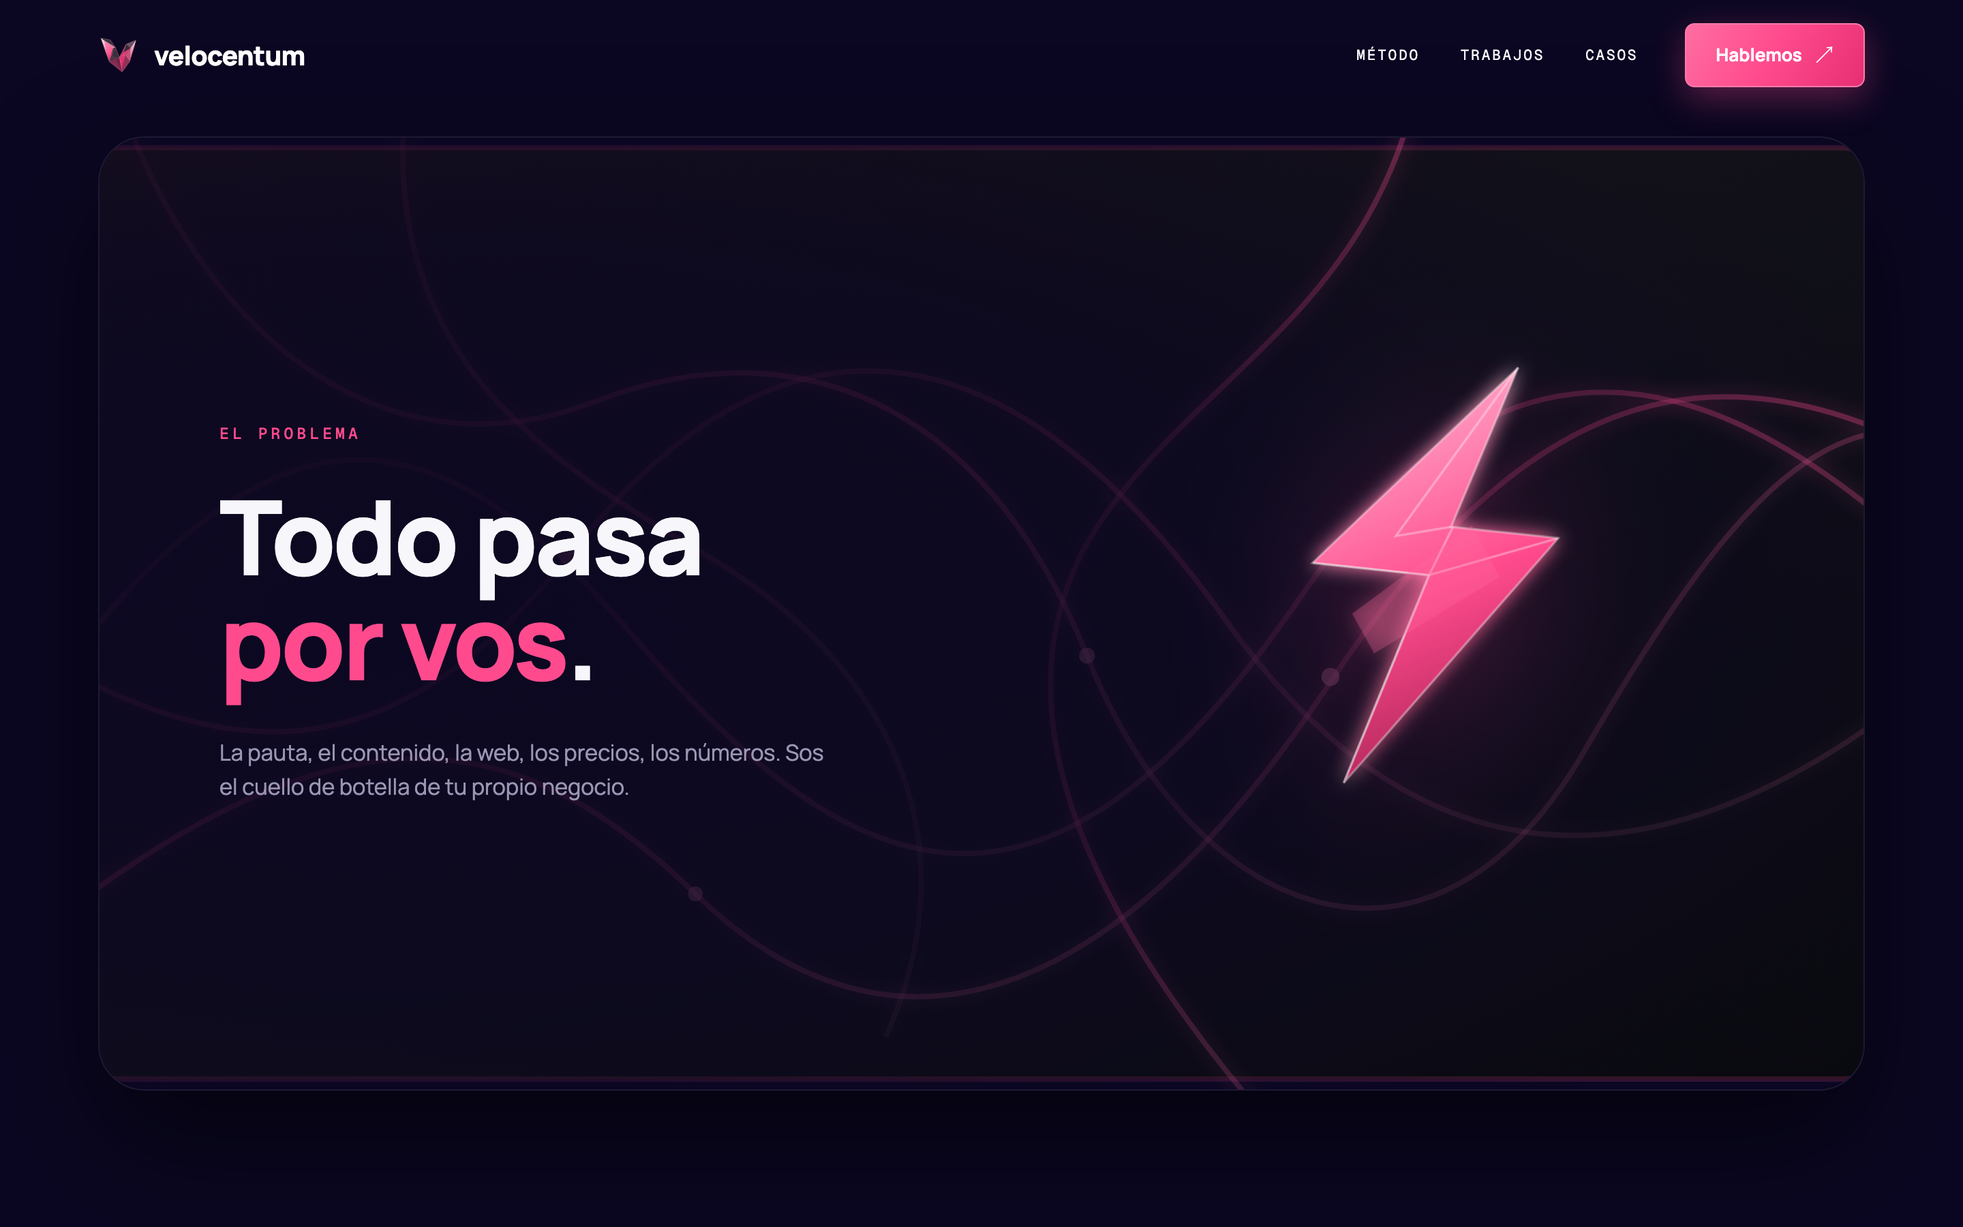
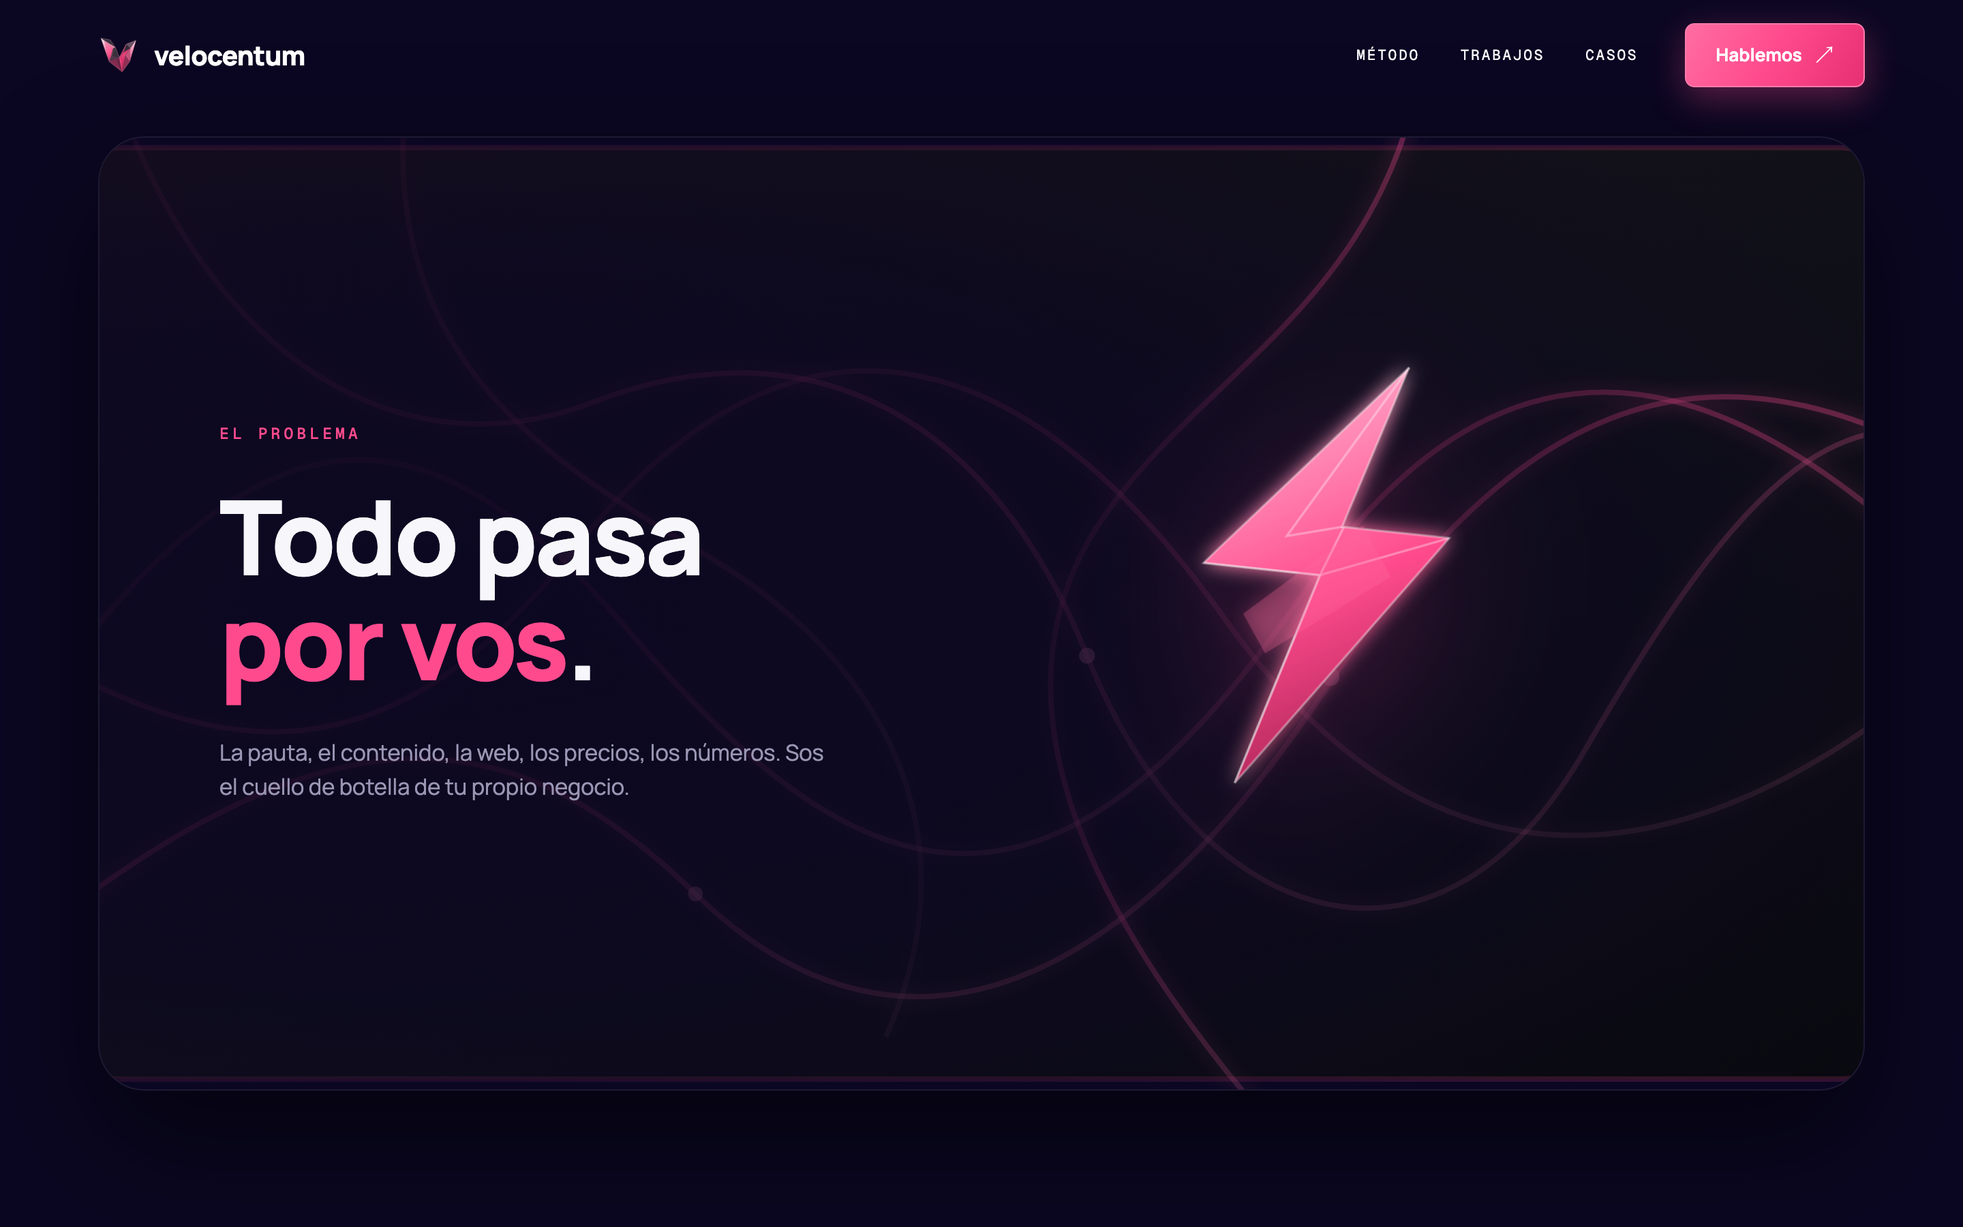
Mockups: correcciones de revisión y aprobación de las cinco secciones
CTA del Hero: vuelve a "Hablemos ↗". El Hero abre y la Sección 09 cierra, y
no pueden usar el mismo botón; además el CTA primario del Hero y el del nav
quedan a treinta píxeles uno del otro. La regla global del CTA en
PLAN_MAIN_HOME.txt pasa a precisar que el CTA de CIERRE DE PÁGINA es único y
dice "Reservá tu análisis de negocio ↗", y que el del Hero y el del nav dicen
"Hablemos ↗". El formato del design system, rx=7 y flecha ↗, vale en los tres.

Footer de la 09: se sacan las ocho ranuras punteadas, que ocupaban medio
footer. Quedan las etiquetas genéricas en texto plano gris tenue, sin
dirección ni enlace detrás, y una sola nota al margen. La regla 11 sigue
valiendo y el contenido real del footer sigue pendiente de definición.

Prisma de la 03: gana presencia de forma aditiva, con una copia de refuerzo
por detrás y el SVG oficial intacto encima. No se reemplaza ninguna pintura
del asset. prism.svg no se toca: su defecto queda documentado en el plan y su
corrección, si se decide, va en un commit propio.

Rayo de la 02: se separa del filo derecho de la card.

Los cinco mockups quedan APROBADOS y registrados en PLAN_MAIN_HOME.txt, como
pide la regla 4 del README de docs/home-mockups. Los mockups anteriores de las
secciones 01, 04 y 09 quedan como versión previa y no se borran. La Sección 05
sigue en PENDIENTE: el diseño de la forma del abanico no está resuelto.

Claude-Session: https://claude.ai/code/session_01AuyrxvTBrKsn7yPnydavKT

Changed region(s): [[0.5938, 0.28, 0.8125, 0.6533]]

diff --git a/docs/home-mockups/03-problema-dos-mockup-final-v2.html b/docs/home-mockups/03-problema-dos-mockup-final-v2.html
@@ -61,7 +61,7 @@ html,body{background:#08080C;color:#FFF;font-family:var(--sans)}
 /* OBJETO: wrapper animado, SVG oficial intacto */
 .obj{position:absolute;z-index:4;filter:drop-shadow(0 24px 60px rgba(255,77,141,.30))}
 .obj svg{width:100%;height:auto;display:block}
-.obj.lightning{right:170px;top:50%;width:300px;transform:translateY(-58%) rotate(6deg)}
+.obj.lightning{right:250px;top:50%;width:300px;transform:translateY(-58%) rotate(6deg)}
 .obj.prism{left:120px;top:50%;width:460px;transform:translateY(-44%) rotate(-4deg)}
 /* DEFECTO DEL ASSET, neutralizado sin tocarlo: en objects/prism.svg la arista
    interna <path d="M250 28L250 218M164 218L250 122 337 218"> no declara
@@ -69,6 +69,19 @@ html,body{background:#08080C;color:#FFF;font-family:var(--sans)}
    vidrio. El PNG oficial del mismo objeto no tiene esa cuña negra. Ninguna
    ruta de ese SVG lleva relleno propio, así que anularlo acá es exacto. */
 .obj.prism svg path{fill:none}
+/* El prisma quedaba como contorno puro y no equilibraba el peso del rayo de
+   la 02. Se le sube la presencia SIN TOCAR EL ASSET: un relleno propio en la
+   cara de vidrio, por debajo del gradiente original del SVG, más un realce
+   suave del contorno. La geometría, los materiales y las opacidades base del
+   archivo quedan intactos. */
+.obj.prism{filter:drop-shadow(0 24px 60px rgba(255,77,141,.34)) drop-shadow(0 0 34px rgba(255,155,192,.34))}
+/* La presencia se agrega POR DETRÁS, no sobre el asset: una copia de refuerzo
+   con las caras rellenas, y encima el SVG oficial intacto con su gradiente
+   glass, su contorno y su haz. Así se suma peso sin reemplazar ni una sola
+   pintura del archivo aprobado. */
+.obj.prism .backing{position:absolute;inset:0;z-index:-1}
+.obj.prism .backing svg polygon{fill:rgba(255,140,184,.40);stroke:none}
+.obj.prism .backing svg path{fill:none;stroke:none}
 
 /* COPY: caja de 560 */
 .copy{position:relative;z-index:5;width:560px;margin-left:88px}
@@ -213,7 +226,17 @@ h2 em{font-style:normal;color:var(--pink)}
   <path d="M18 16h122" stroke="#fff" stroke-opacity=".06"/>
 </svg></div>
     <div class="veil"></div>
-    <div class="obj prism"><svg xmlns="http://www.w3.org/2000/svg" viewBox="0 0 520 260">
+    <div class="obj prism"><div class="backing"><svg xmlns="http://www.w3.org/2000/svg" viewBox="0 0 520 260">
+<defs>
+ <linearGradient id="pr03b-glass" x1="190" y1="30" x2="300" y2="220" gradientUnits="userSpaceOnUse"><stop stop-color="#fff" stop-opacity=".16"/><stop offset=".5" stop-color="#FF9BC0" stop-opacity=".12"/><stop offset="1" stop-color="#FF4B8D" stop-opacity=".18"/></linearGradient>
+ <linearGradient id="pr03b-beam" x1="250" y1="0" x2="500" y2="0" gradientUnits="userSpaceOnUse"><stop stop-color="#fff"/><stop offset=".18" stop-color="#ffe76d"/><stop offset=".38" stop-color="#7dff6a"/><stop offset=".60" stop-color="#50c9ff"/><stop offset=".82" stop-color="#7c5cff"/><stop offset="1" stop-color="#FF4B8D" stop-opacity="0"/></linearGradient>
+ <filter id="pr03b-g"><feGaussianBlur stdDeviation="5"/></filter>
+</defs>
+<path d="M16 136H170" stroke="#FF4B8D" stroke-opacity=".20" stroke-width="16" filter="url(#pr03b-g)"/><path d="M16 136H170" stroke="#FF4B8D" stroke-opacity=".45" stroke-width="3"/>
+<polygon points="250,28 164,218 337,218" fill="url(#pr03b-glass)" stroke="#FFB1CC" stroke-opacity=".82" stroke-width="2"/>
+<path d="M250 28L250 218M164 218L250 122 337 218" stroke="#fff" stroke-opacity=".18"/>
+<path d="M250 136L500 136" stroke="url(#pr03b-beam)" stroke-width="13" filter="url(#pr03b-g)"/><path d="M250 136L500 136" stroke="url(#pr03b-beam)" stroke-width="5"/>
+</svg></div><svg xmlns="http://www.w3.org/2000/svg" viewBox="0 0 520 260">
 <defs>
  <linearGradient id="pr03-glass" x1="190" y1="30" x2="300" y2="220" gradientUnits="userSpaceOnUse"><stop stop-color="#fff" stop-opacity=".16"/><stop offset=".5" stop-color="#FF9BC0" stop-opacity=".12"/><stop offset="1" stop-color="#FF4B8D" stop-opacity=".18"/></linearGradient>
  <linearGradient id="pr03-beam" x1="250" y1="0" x2="500" y2="0" gradientUnits="userSpaceOnUse"><stop stop-color="#fff"/><stop offset=".18" stop-color="#ffe76d"/><stop offset=".38" stop-color="#7dff6a"/><stop offset=".60" stop-color="#50c9ff"/><stop offset=".82" stop-color="#7c5cff"/><stop offset="1" stop-color="#FF4B8D" stop-opacity="0"/></linearGradient>
@@ -276,7 +299,7 @@ h2 em{font-style:normal;color:var(--pink)}
     <li><b>Se elimina el fragmento guía.</b> Ya no hay espacio lateral reservado para él, ni en esta sección ni en ninguna otra de la HOME.</li>
     <li><b>Movimiento:</b> idéntico al de la 02, aplicado al prisma. Recorrido acotado, nunca toca el borde de la card. Función pura del progreso local, reversible y sólo <code>transform</code>. En <code>prefers-reduced-motion</code> queda en posición fija, sin recorrido.</li>
     <li><b>Tipografía real.</b> Manrope y Geist Mono, no la Helvetica del boceto.</li>
-    <li><b>Defecto encontrado en <code>objects/prism.svg</code>.</b> Su arista interna no declara <code>fill="none"</code>, así que el subtrazo se rellena de negro y tapa el vidrio del prisma; el PNG oficial del mismo objeto no tiene esa cuña. Acá queda neutralizado desde el CSS del mockup, sin tocar el asset. Corregirlo en el archivo es una decisión del usuario.</li><li><b>Nota de contenido.</b> La 03 ya no repite el argumento de la 02. La 02 plantea el problema; la 03 ataca la solución obvia a ese problema, que es tercerizar.</li><li><b>Corte forzado en dos líneas:</b> «Sumar gente» / «no lo resolvió.», con «no lo resolvió» en <code>--pink</code>.</li>
+    <li><b>Defecto encontrado en <code>objects/prism.svg</code>.</b> Su arista interna no declara <code>fill="none"</code>, así que el subtrazo se rellena de negro y tapa el vidrio del prisma; el PNG oficial del mismo objeto no tiene esa cuña. Acá queda neutralizado desde el CSS del mockup, sin tocar el asset. La presencia de las caras se sube con una copia de refuerzo por detrás, con el SVG oficial intacto encima: no se reemplaza ninguna pintura del archivo aprobado. Corregirlo en el archivo es una decisión del usuario.</li><li><b>Nota de contenido.</b> La 03 ya no repite el argumento de la 02. La 02 plantea el problema; la 03 ataca la solución obvia a ese problema, que es tercerizar.</li><li><b>Corte forzado en dos líneas:</b> «Sumar gente» / «no lo resolvió.», con «no lo resolvió» en <code>--pink</code>.</li>
   </ul>
 </div>
 </div>

diff --git a/docs/home-mockups/09-empecemos-mockup-final-v2.html b/docs/home-mockups/09-empecemos-mockup-final-v2.html
@@ -78,14 +78,16 @@ h2 em{font-style:normal;color:var(--pink)}
 .fnav{display:flex;gap:28px;margin-left:64px;padding-top:5px}
 .fnav span{font-family:var(--mono);font-size:.62rem;letter-spacing:.13em;text-transform:uppercase;color:var(--on-dark-2)}
 .fright{margin-left:auto;text-align:right}
-/* CONTENIDO REAL PENDIENTE · regla 11 de AGENTS.md: no se inventan direcciones ni URLs */
-.slot{display:inline-block;border:1px dashed rgba(255,75,141,.55);border-radius:6px;
- padding:6px 12px;font-family:var(--mono);font-size:.58rem;letter-spacing:.12em;text-transform:uppercase;
- color:rgba(255,155,192,.9);background:rgba(255,75,141,.06)}
-.fright .slot{margin-bottom:9px}
-.soc{display:flex;gap:10px;justify-content:flex-end}
-.legal{position:absolute;left:72px;right:72px;top:1062px;display:flex;z-index:20;
- font-family:var(--mono);font-size:.58rem;letter-spacing:.1em;text-transform:uppercase;color:#6F6A86}
+/* Etiquetas genéricas, SIN dirección ni enlace detrás: la regla 11 de
+   AGENTS.md prohíbe inventar direcciones y URLs, y el contenido real del
+   footer está pendiente de definición. Va anotado al margen del mockup. */
+.fmail{display:block;font-size:13px;color:rgba(154,150,180,.78);margin-bottom:10px}
+.soc{display:flex;gap:20px;justify-content:flex-end}
+.soc span{font-family:var(--mono);font-size:.62rem;letter-spacing:.13em;text-transform:uppercase;
+ color:rgba(154,150,180,.6)}
+.legal{position:absolute;left:72px;right:72px;top:1064px;display:flex;z-index:20;
+ font-family:var(--mono);font-size:.58rem;letter-spacing:.1em;text-transform:uppercase;
+ color:rgba(111,106,134,.85)}
 .legal .r{margin-left:auto;display:flex;gap:26px}
 
 </style></head><body><div class="shell">
@@ -289,18 +291,14 @@ h2 em{font-style:normal;color:var(--pink)}
 </svg><span>velocentum</span></div>
     <div class="fnav"><span>Método</span><span>Trabajos</span><span>Casos</span><span>Contacto</span></div>
     <div class="fright">
-      <span class="slot">Mail · pendiente</span>
-      <div class="soc">
-        <span class="slot">Red 1 · pendiente</span>
-        <span class="slot">Red 2 · pendiente</span>
-        <span class="slot">Red 3 · pendiente</span>
-      </div>
+      <span class="fmail">Mail</span>
+      <div class="soc"><span>Instagram</span><span>LinkedIn</span><span>TikTok</span></div>
     </div>
   </div>
 
   <div class="legal">
-    <span class="slot">Legal · pendiente</span>
-    <div class="r"><span class="slot">Privacidad · pendiente</span><span class="slot">Términos · pendiente</span></div>
+    <span>© Velocentum</span>
+    <div class="r"><span>Políticas de privacidad</span><span>Términos</span></div>
   </div>
 
   <svg class="ann" data-layer="orden" viewBox="0 0 1440 1120">
@@ -329,9 +327,8 @@ h2 em{font-style:normal;color:var(--pink)}
     <text x="72" y="140" fill="#FF85B8">EL FORMULARIO VIVE EN LA RUTA /CONTACTO, EN DOS PASOS</text>
     <text x="72" y="158" fill="#9A96B4">CARD TRANSLÚCIDA SOBRE FONDO DE ATMOSPHERE/ · ESA RUTA TODAVÍA NO EXISTE EN EL ÁRBOL</text>
     <text x="72" y="176" fill="#9A96B4">T5 YA NO DISPARA EL REVEAL DEL FORMULARIO: DEBE REDEFINIRSE QUÉ REVELA</text>
-    <rect x="1000" y="972" width="368" height="118" fill="none" stroke="#FF4B8D" stroke-opacity=".5" stroke-dasharray="5 5"/>
-    <text x="1368" y="964" fill="#FF4B8D" text-anchor="end">MAIL Y REDES: CONTENIDO REAL PENDIENTE</text>
-    <text x="1368" y="1108" fill="#9A96B4" text-anchor="end">NO SE INVENTAN DIRECCIONES NI URLS · REGLA 11 DE AGENTS.MD</text>
+    <text x="1368" y="964" fill="#FF4B8D" text-anchor="end">EL CONTENIDO REAL DEL FOOTER ESTÁ PENDIENTE DE DEFINICIÓN</text>
+    <text x="1368" y="982" fill="#9A96B4" text-anchor="end">LAS ETIQUETAS SON GENÉRICAS Y NO LLEVAN DIRECCIÓN NI ENLACE DETRÁS · REGLA 11 DE AGENTS.MD</text>
   </svg>
 
   <svg class="ann" data-layer="recon" viewBox="0 0 1440 1120">
@@ -368,8 +365,8 @@ h2 em{font-style:normal;color:var(--pink)}
     <li><b>La reconstrucción no cambia.</b> Se conservan los cinco tiempos con su conteo exacto de piezas, y sigue siendo la única reconstrucción del sitio. El Crystal es el oficial de <code>CrystalFiveApproved</code>: 18 facetas y 7 inclusiones, sin cambios de geometría ni de tamaño.</li>
     <li><b>Al eliminarse el fragmento guía, la reconstrucción pierde lo que la anticipaba.</b> El Crystal desaparece entre el Hero y esta sección. Queda anotado para evaluar en implementación si la entrada necesita preparación.</li>
     <li><b>El hilo</b> baja desde la punta del Crystal hacia el copy: núcleo de 2 px, degradado rosa que pierde intensidad al acercarse, halo exterior desenfocado y sin pulsos fuertes.</li>
-    <li><b>Footer con contenido real pendiente.</b> La marca y la navegación son reales; el mail, las redes y los enlaces legales van como ranuras marcadas, porque no hay direcciones ni URLs confirmadas en el repositorio y la regla 11 de <code>AGENTS.md</code> prohíbe inventarlas.</li>
-    <li><b>CTA del design system</b> con el texto único de conversión del sitio.</li>
+    <li><b>El contenido real del footer está pendiente de definición.</b> La marca y la navegación son reales. El mail, las redes y los enlaces legales aparecen con su etiqueta genérica y sin dirección ni enlace detrás: no hay direcciones ni URLs confirmadas en el repositorio y la regla 11 de <code>AGENTS.md</code> prohíbe inventarlas. Lo que el mockup aprueba de esa franja es la composición y el peso tipográfico, no el contenido.</li>
+    <li><b>CTA del design system.</b> «Reservá tu análisis de negocio ↗» es el CTA de CIERRE DE PÁGINA y es único: el Hero y el nav abren con «Hablemos ↗». El Hero abre y esta sección cierra, y no pueden usar el mismo botón.</li>
     <li><b>Tipografía real.</b> Manrope y Geist Mono, no la Helvetica del boceto.</li>
   </ul>
 </div>

diff --git a/docs/home-mockups/01-hero-mockup-final-v2.html b/docs/home-mockups/01-hero-mockup-final-v2.html
@@ -180,7 +180,7 @@ h1 em{font-style:normal;color:var(--pink)}
     <h1>Estamos en el negocio de<br><em>hacer crecer negocios</em>.</h1>
     <p class="sub">Estrategia, creatividad, adquisición y medición. Primero analizamos tu negocio. Después armamos el plan.</p>
     <div class="btns">
-      <span class="cta lg">Reservá tu análisis de negocio <span>↗</span></span>
+      <span class="cta lg">Hablemos <span>↗</span></span>
       <span class="ghost">Ver método <span>↗</span></span>
     </div>
   </div>
@@ -223,10 +223,10 @@ h1 em{font-style:normal;color:var(--pink)}
     <text x="72" y="112" fill="#FF4B8D">LINKS DEL NAV EN --ON-DARK · SIGUEN PASANDO POR EL COLOR-MIX DE LA VARIANTE CLARA DE LA 08</text>
     <text x="72" y="130" fill="#9A96B4">NO REEMPLAZAR POR UN COLOR FIJO</text>
     <rect x="1150" y="24" width="218" height="46" fill="none" stroke="#FF4B8D" stroke-opacity=".6" rx="7"/>
-    <text x="1368" y="94" fill="#FF85B8" text-anchor="end">EL NAV CONSERVA «HABLEMOS»: ES NAVEGACIÓN, NO CONVERSIÓN</text>
+    <text x="1368" y="94" fill="#FF85B8" text-anchor="end">NAV Y HERO DICEN «HABLEMOS ↗» · MISMO MOMENTO DEL RECORRIDO, UN SOLO MENSAJE</text>
     <text x="720" y="500" fill="#FF4B8D" text-anchor="middle">CTA DEL DESIGN SYSTEM · RX 7 · FLECHA ↗ · DEGRADADO #FF6DA2 → #FF4B8D → #E72F73 · BORDE #FF7BAB</text>
     <text x="720" y="518" fill="#9A96B4" text-anchor="middle">EL FORMATO DE RADIO 999 CON FLECHA → QUEDA OBSOLETO</text>
-    <text x="720" y="536" fill="#9A96B4" text-anchor="middle">TEXTO ÚNICO DE CONVERSIÓN EN TODO EL SITIO</text>
+    <text x="720" y="536" fill="#9A96B4" text-anchor="middle">EL HERO ABRE CON «HABLEMOS ↗» · EL CTA ÚNICO DE CIERRE VIVE EN LA SECCIÓN 09</text>
   </svg>
 
   <svg class="ann" data-layer="grid" viewBox="0 0 1440 1120">
@@ -252,7 +252,7 @@ h1 em{font-style:normal;color:var(--pink)}
     <li><b>Ninguna píldora invade el copy ni los botones.</b> Todas arrancan por debajo de y=596. Prendé la capa de píldoras para ver la zona prohibida.</li>
     <li><b>Flotado lento y continuo</b>, con desfase distinto por píldora entre 0,4 y 3,6 s. Es la primera animación del sitio independiente de <code>useScrollEngine</code>, y se apaga con <code>prefers-reduced-motion</code>.</li>
     <li><b>El lienzo pasa a ~1120 de alto.</b> Las píldoras inferiores se descubren al empezar a scrollear.</li>
-    <li><b>CTA del design system:</b> rx 7, flecha ↗, relleno con degradado <code>#FF6DA2 → #FF4B8D → #E72F73</code> y borde <code>#FF7BAB</code>. El formato de radio 999 con flecha → queda obsoleto. El texto de conversión es único en todo el sitio; el nav conserva «Hablemos» por ser navegación.</li>
+    <li><b>CTA del design system:</b> rx 7, flecha ↗, relleno con degradado <code>#FF6DA2 → #FF4B8D → #E72F73</code> y borde <code>#FF7BAB</code>. El formato de radio 999 con flecha → queda obsoleto. El texto no es el mismo en todo el sitio: el Hero y el nav dicen «Hablemos ↗», y el CTA único de cierre, «Reservá tu análisis de negocio ↗», vive en la Sección 09. El Hero abre y la 09 cierra: son dos momentos distintos y no pueden usar el mismo botón. Además, acá el CTA primario y el del nav quedan a treinta píxeles uno del otro.</li>
     <li><b>Tipografía real.</b> Manrope y Geist Mono, no la Helvetica del boceto.</li>
   </ul>
 </div>

diff --git a/docs/home-mockups/02-problema-uno-mockup-final-v2.html b/docs/home-mockups/02-problema-uno-mockup-final-v2.html
@@ -61,7 +61,7 @@ html,body{background:#08080C;color:#FFF;font-family:var(--sans)}
 /* OBJETO: wrapper animado, SVG oficial intacto */
 .obj{position:absolute;z-index:4;filter:drop-shadow(0 24px 60px rgba(255,77,141,.30))}
 .obj svg{width:100%;height:auto;display:block}
-.obj.lightning{right:170px;top:50%;width:300px;transform:translateY(-58%) rotate(6deg)}
+.obj.lightning{right:250px;top:50%;width:300px;transform:translateY(-58%) rotate(6deg)}
 .obj.prism{left:120px;top:50%;width:460px;transform:translateY(-44%) rotate(-4deg)}
 /* DEFECTO DEL ASSET, neutralizado sin tocarlo: en objects/prism.svg la arista
    interna <path d="M250 28L250 218M164 218L250 122 337 218"> no declara
@@ -69,6 +69,19 @@ html,body{background:#08080C;color:#FFF;font-family:var(--sans)}
    vidrio. El PNG oficial del mismo objeto no tiene esa cuña negra. Ninguna
    ruta de ese SVG lleva relleno propio, así que anularlo acá es exacto. */
 .obj.prism svg path{fill:none}
+/* El prisma quedaba como contorno puro y no equilibraba el peso del rayo de
+   la 02. Se le sube la presencia SIN TOCAR EL ASSET: un relleno propio en la
+   cara de vidrio, por debajo del gradiente original del SVG, más un realce
+   suave del contorno. La geometría, los materiales y las opacidades base del
+   archivo quedan intactos. */
+.obj.prism{filter:drop-shadow(0 24px 60px rgba(255,77,141,.34)) drop-shadow(0 0 34px rgba(255,155,192,.34))}
+/* La presencia se agrega POR DETRÁS, no sobre el asset: una copia de refuerzo
+   con las caras rellenas, y encima el SVG oficial intacto con su gradiente
+   glass, su contorno y su haz. Así se suma peso sin reemplazar ni una sola
+   pintura del archivo aprobado. */
+.obj.prism .backing{position:absolute;inset:0;z-index:-1}
+.obj.prism .backing svg polygon{fill:rgba(255,140,184,.40);stroke:none}
+.obj.prism .backing svg path{fill:none;stroke:none}
 
 /* COPY: caja de 560 */
 .copy{position:relative;z-index:5;width:560px;margin-left:88px}
